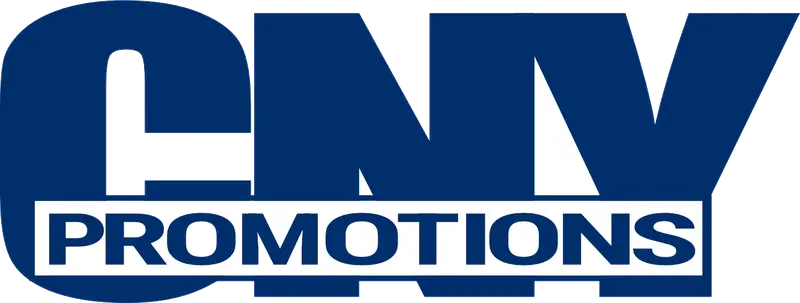
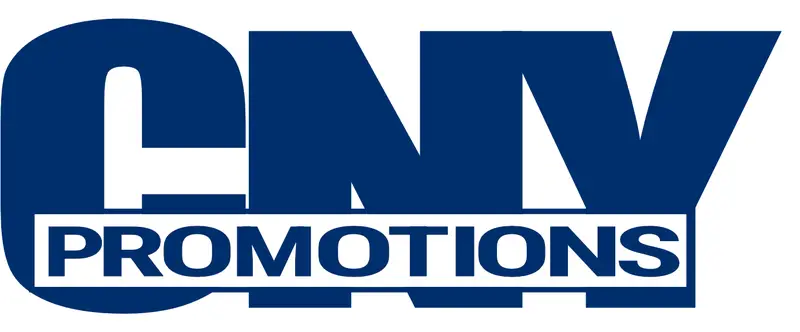
CNY Promotions keeps its white background
The owner, 10 September 2026: "for Collectorfest logo you leave the white
background, the png cut out doesn't look good, ok to keep it on white". He is
right and I looked at it before changing anything: flattened onto --card, the
cut leaves navy #002F6C ink on dark green at almost no contrast, and the white
counter inside the N and the white bar reading PROMOTIONS stay behind as
slivers that read as holes punched through the letters.

cut() DECIDES WHAT IS BACKGROUND; IT CANNOT DECIDE WHETHER THE ART SURVIVES
LOSING IT. That is a taste question and nothing in the script can measure it,
so this is an opt-out BY NAME -- KEEP_BACKGROUND in build-show-logos.py -- and
the note there says what shape of logo fails the cut so the next one is
recognisable. keep_plate() runs deletterbox() but not background_mask(), so a
screenshot's black bars still go and the white the art was drawn on stays.

THE FIRST VERSION SHIPPED THE WHITE AND ALSO ALL THE EMPTY SPACE. Keeping the
background is not the same as keeping the margin: the master is 1920x1080 with
the wordmark in the middle, so as sent it gave a 1586x1080 white slab whose art
was a third of its height, which in a 34px card slot draws the logo about 11px
tall inside a white box. It is cropped tight to the ink with a 3% margin now,
1399x581, measured with the same background_mask the cut uses and used only to
measure. The margin is what makes it read as a plate rather than a crop.
[…]

Changed region(s): [[0.0, 0.0, 1.0, 1.0]]

diff --git a/public/card-shows.html b/public/card-shows.html
@@ -339,8 +339,8 @@
         <div class="show-body">
           
           <div class="show-h"><button type="button" class="show-logo" aria-label="Enlarge the CNY Promotions logo" data-imglb="/assets/shows/cny-promotions-lg.webp" data-imglb-avif="/assets/shows/cny-promotions-lg.avif" data-imglb-alt="CNY Promotions logo"><picture>
-            <source type="image/avif" srcset="/assets/shows/cny-promotions-200.avif 200w, /assets/shows/cny-promotions-400.avif 400w" sizes="(min-width:720px) 80px, 56px">
-            <img src="/assets/shows/cny-promotions-200.webp" alt="Collectorsfest #110 logo" width="200" height="113" loading="lazy" decoding="async" srcset="/assets/shows/cny-promotions-200.webp 200w, /assets/shows/cny-promotions-400.webp 400w" sizes="(min-width:720px) 80px, 56px">
+            <source type="image/avif" srcset="/assets/shows/cny-promotions-400.avif 400w" sizes="(min-width:720px) 80px, 56px">
+            <img src="/assets/shows/cny-promotions-200.webp" alt="Collectorsfest #110 logo" width="200" height="83" loading="lazy" decoding="async" srcset="/assets/shows/cny-promotions-200.webp 200w, /assets/shows/cny-promotions-400.webp 400w" sizes="(min-width:720px) 80px, 56px">
           </picture></button><h3>Collectorsfest #110</h3></div>
           <p class="show-meta">Sunday &bull; 9:30am to 3pm</p>
           <p class="show-where"><a class="venue-link" href="https://www.google.com/maps/search/?api=1&amp;query=581%20State%20Fair%20Blvd%2C%20Syracuse%2C%20NY%2013209" data-map-apple="https://maps.apple.com/?q=581%20State%20Fair%20Blvd%2C%20Syracuse%2C%20NY%2013209" rel="noopener" target="_blank" aria-label="C&amp;S Companies Science &amp; Industry Building, NYS Fairgrounds, 581 State Fair Blvd, Syracuse, NY 13209, where Collectorsfest #110, September 13, 2026 is held, opens on google.com"><span class="show-venue">C&amp;S Companies Science &amp; Industry Building, NYS Fairgrounds</span><span class="show-addr">581 State Fair Blvd, Syracuse, NY 13209</span></a></p>
@@ -1184,8 +1184,8 @@
         <div class="show-body">
           
           <div class="show-h"><button type="button" class="show-logo" aria-label="Enlarge the CNY Promotions, LLC logo" data-imglb="/assets/shows/cny-promotions-lg.webp" data-imglb-avif="/assets/shows/cny-promotions-lg.avif" data-imglb-alt="CNY Promotions, LLC logo"><picture>
-            <source type="image/avif" srcset="/assets/shows/cny-promotions-200.avif 200w, /assets/shows/cny-promotions-400.avif 400w" sizes="(min-width:720px) 80px, 56px">
-            <img src="/assets/shows/cny-promotions-200.webp" alt="POKEFEST Syracuse logo" width="200" height="113" loading="lazy" decoding="async" srcset="/assets/shows/cny-promotions-200.webp 200w, /assets/shows/cny-promotions-400.webp 400w" sizes="(min-width:720px) 80px, 56px">
+            <source type="image/avif" srcset="/assets/shows/cny-promotions-400.avif 400w" sizes="(min-width:720px) 80px, 56px">
+            <img src="/assets/shows/cny-promotions-200.webp" alt="POKEFEST Syracuse logo" width="200" height="83" loading="lazy" decoding="async" srcset="/assets/shows/cny-promotions-200.webp 200w, /assets/shows/cny-promotions-400.webp 400w" sizes="(min-width:720px) 80px, 56px">
           </picture></button><h3>POKEFEST Syracuse</h3></div>
           <p class="show-meta">Sunday &bull; 10am to 4pm</p>
           <p class="show-where"><a class="venue-link" href="https://www.google.com/maps/search/?api=1&amp;query=581%20State%20Fair%20Blvd%2C%20Syracuse%2C%20NY%2013209" data-map-apple="https://maps.apple.com/?q=581%20State%20Fair%20Blvd%2C%20Syracuse%2C%20NY%2013209" rel="noopener" target="_blank" aria-label="C&amp;S Companies Science &amp; Industry Building, NYS Fairgrounds, 581 State Fair Blvd, Syracuse, NY 13209, where POKEFEST Syracuse, October 11, 2026 is held, opens on google.com"><span class="show-venue">C&amp;S Companies Science &amp; Industry Building, NYS Fairgrounds</span><span class="show-addr">581 State Fair Blvd, Syracuse, NY 13209</span></a></p>
@@ -1321,8 +1321,8 @@
         <div class="show-body">
           
           <div class="show-h"><button type="button" class="show-logo" aria-label="Enlarge the CNY Promotions, LLC logo" data-imglb="/assets/shows/cny-promotions-lg.webp" data-imglb-avif="/assets/shows/cny-promotions-lg.avif" data-imglb-alt="CNY Promotions, LLC logo"><picture>
-            <source type="image/avif" srcset="/assets/shows/cny-promotions-200.avif 200w, /assets/shows/cny-promotions-400.avif 400w" sizes="(min-width:720px) 80px, 56px">
-            <img src="/assets/shows/cny-promotions-200.webp" alt="Toyfest #10 logo" width="200" height="113" loading="lazy" decoding="async" srcset="/assets/shows/cny-promotions-200.webp 200w, /assets/shows/cny-promotions-400.webp 400w" sizes="(min-width:720px) 80px, 56px">
+            <source type="image/avif" srcset="/assets/shows/cny-promotions-400.avif 400w" sizes="(min-width:720px) 80px, 56px">
+            <img src="/assets/shows/cny-promotions-200.webp" alt="Toyfest #10 logo" width="200" height="83" loading="lazy" decoding="async" srcset="/assets/shows/cny-promotions-200.webp 200w, /assets/shows/cny-promotions-400.webp 400w" sizes="(min-width:720px) 80px, 56px">
           </picture></button><h3>Toyfest #10</h3></div>
           <p class="show-meta">Saturday &bull; 9:30am to 3pm</p>
           <p class="show-where"><a class="venue-link" href="https://www.google.com/maps/search/?api=1&amp;query=581%20State%20Fair%20Blvd%2C%20Syracuse%2C%20NY%2013209" data-map-apple="https://maps.apple.com/?q=581%20State%20Fair%20Blvd%2C%20Syracuse%2C%20NY%2013209" rel="noopener" target="_blank" aria-label="C&amp;S Companies Science &amp; Industry Building, NYS Fairgrounds, 581 State Fair Blvd, Syracuse, NY 13209, where Toyfest #10, October 17, 2026 is held, opens on google.com"><span class="show-venue">C&amp;S Companies Science &amp; Industry Building, NYS Fairgrounds</span><span class="show-addr">581 State Fair Blvd, Syracuse, NY 13209</span></a></p>
@@ -1436,8 +1436,8 @@
         <div class="show-body">
           
           <div class="show-h"><button type="button" class="show-logo" aria-label="Enlarge the CNY Promotions, LLC logo" data-imglb="/assets/shows/cny-promotions-lg.webp" data-imglb-avif="/assets/shows/cny-promotions-lg.avif" data-imglb-alt="CNY Promotions, LLC logo"><picture>
-            <source type="image/avif" srcset="/assets/shows/cny-promotions-200.avif 200w, /assets/shows/cny-promotions-400.avif 400w" sizes="(min-width:720px) 80px, 56px">
-            <img src="/assets/shows/cny-promotions-200.webp" alt="Collectorsfest #111 logo" width="200" height="113" loading="lazy" decoding="async" srcset="/assets/shows/cny-promotions-200.webp 200w, /assets/shows/cny-promotions-400.webp 400w" sizes="(min-width:720px) 80px, 56px">
+            <source type="image/avif" srcset="/assets/shows/cny-promotions-400.avif 400w" sizes="(min-width:720px) 80px, 56px">
+            <img src="/assets/shows/cny-promotions-200.webp" alt="Collectorsfest #111 logo" width="200" height="83" loading="lazy" decoding="async" srcset="/assets/shows/cny-promotions-200.webp 200w, /assets/shows/cny-promotions-400.webp 400w" sizes="(min-width:720px) 80px, 56px">
           </picture></button><h3>Collectorsfest #111</h3></div>
           <p class="show-meta">Sunday &bull; 9:30am to 3pm</p>
           <p class="show-where"><a class="venue-link" href="https://www.google.com/maps/search/?api=1&amp;query=581%20State%20Fair%20Blvd%2C%20Syracuse%2C%20NY%2013209" data-map-apple="https://maps.apple.com/?q=581%20State%20Fair%20Blvd%2C%20Syracuse%2C%20NY%2013209" rel="noopener" target="_blank" aria-label="C&amp;S Companies Science &amp; Industry Building, NYS Fairgrounds, 581 State Fair Blvd, Syracuse, NY 13209, where Collectorsfest #111, October 18, 2026 is held, opens on google.com"><span class="show-venue">C&amp;S Companies Science &amp; Industry Building, NYS Fairgrounds</span><span class="show-addr">581 State Fair Blvd, Syracuse, NY 13209</span></a></p>
@@ -1722,8 +1722,8 @@
         <div class="show-body">
           
           <div class="show-h"><button type="button" class="show-logo" aria-label="Enlarge the CNY Promotions, LLC logo" data-imglb="/assets/shows/cny-promotions-lg.webp" data-imglb-avif="/assets/shows/cny-promotions-lg.avif" data-imglb-alt="CNY Promotions, LLC logo"><picture>
-            <source type="image/avif" srcset="/assets/shows/cny-promotions-200.avif 200w, /assets/shows/cny-promotions-400.avif 400w" sizes="(min-width:720px) 80px, 56px">
-            <img src="/assets/shows/cny-promotions-200.webp" alt="Collectorsfest #112 logo" width="200" height="113" loading="lazy" decoding="async" srcset="/assets/shows/cny-promotions-200.webp 200w, /assets/shows/cny-promotions-400.webp 400w" sizes="(min-width:720px) 80px, 56px">
+            <source type="image/avif" srcset="/assets/shows/cny-promotions-400.avif 400w" sizes="(min-width:720px) 80px, 56px">
+            <img src="/assets/shows/cny-promotions-200.webp" alt="Collectorsfest #112 logo" width="200" height="83" loading="lazy" decoding="async" srcset="/assets/shows/cny-promotions-200.webp 200w, /assets/shows/cny-promotions-400.webp 400w" sizes="(min-width:720px) 80px, 56px">
           </picture></button><h3>Collectorsfest #112</h3></div>
           <p class="show-meta">Sunday &bull; 9:30am to 3pm</p>
           <p class="show-where"><a class="venue-link" href="https://www.google.com/maps/search/?api=1&amp;query=441%20Electronics%20Parkway%2C%20Liverpool%2C%20NY%2013088" data-map-apple="https://maps.apple.com/?q=441%20Electronics%20Parkway%2C%20Liverpool%2C%20NY%2013088" rel="noopener" target="_blank" aria-label="Randolph House Hotel, 441 Electronics Parkway, Liverpool, NY 13088, where Collectorsfest #112, November 1, 2026 is held, opens on google.com"><span class="show-venue">Randolph House Hotel</span><span class="show-addr">441 Electronics Parkway, Liverpool, NY 13088</span></a></p>
@@ -2198,8 +2198,8 @@
         <div class="show-body">
           
           <div class="show-h"><button type="button" class="show-logo" aria-label="Enlarge the CNY Promotions, LLC logo" data-imglb="/assets/shows/cny-promotions-lg.webp" data-imglb-avif="/assets/shows/cny-promotions-lg.avif" data-imglb-alt="CNY Promotions, LLC logo"><picture>
-            <source type="image/avif" srcset="/assets/shows/cny-promotions-200.avif 200w, /assets/shows/cny-promotions-400.avif 400w" sizes="(min-width:720px) 80px, 56px">
-            <img src="/assets/shows/cny-promotions-200.webp" alt="Collector's Mega Show #113 logo" width="200" height="113" loading="lazy" decoding="async" srcset="/assets/shows/cny-promotions-200.webp 200w, /assets/shows/cny-promotions-400.webp 400w" sizes="(min-width:720px) 80px, 56px">
+            <source type="image/avif" srcset="/assets/shows/cny-promotions-400.avif 400w" sizes="(min-width:720px) 80px, 56px">
+            <img src="/assets/shows/cny-promotions-200.webp" alt="Collector's Mega Show #113 logo" width="200" height="83" loading="lazy" decoding="async" srcset="/assets/shows/cny-promotions-200.webp 200w, /assets/shows/cny-promotions-400.webp 400w" sizes="(min-width:720px) 80px, 56px">
           </picture></button><h3>Collector's Mega Show #113</h3></div>
           <p class="show-meta">Saturday &bull; 9:30am to 4pm</p>
           <p class="show-where"><a class="venue-link" href="https://www.google.com/maps/search/?api=1&amp;query=581%20State%20Fair%20Blvd%2C%20Syracuse%2C%20NY%2013209" data-map-apple="https://maps.apple.com/?q=581%20State%20Fair%20Blvd%2C%20Syracuse%2C%20NY%2013209" rel="noopener" target="_blank" aria-label="Horticultural Building, NYS Fairgrounds, 581 State Fair Blvd, Syracuse, NY 13209, where Collector's Mega Show #113, December 5, 2026 is held, opens on google.com"><span class="show-venue">Horticultural Building, NYS Fairgrounds</span><span class="show-addr">581 State Fair Blvd, Syracuse, NY 13209</span></a></p>

diff --git a/scripts/build-show-logos.py b/scripts/build-show-logos.py
@@ -166,6 +166,58 @@ def background_mask(rgb: np.ndarray, tol: int) -> np.ndarray:
     return seen
 
 
+# SOME LOGOS ARE WORSE WITH THE BACKGROUND CUT, AND THE CUT IS NOT A JUDGEMENT
+# ABOUT WHETHER THEY LOOK GOOD. cut() decides what is background; it cannot
+# decide whether the art SURVIVES losing it. A logo whose ink is dark and whose
+# shapes have white counters comes out of it as a patchwork: the ink lands on
+# --card at close to no contrast, and the enclosed whites stay behind as slivers
+# that read as holes punched in the letters.
+#
+# CNY PROMOTIONS IS THAT CASE and the owner called it, 10 September 2026: "for
+# Collectorfest logo you leave the white background, the png cut out doesn't look
+# good, ok to keep it on white". Navy #002F6C wordmark, a white bar through the
+# middle of it reading PROMOTIONS, and a white counter inside the N. Cut, the
+# navy sits on the dark green card and the two whites float unattached.
+#
+# So this is an opt-out BY NAME rather than a heuristic, because the test is
+# taste and nothing here can measure it. Add a stem when a cut logo looks wrong
+# on the page, and look at the rendition on the card green before deciding: run
+# this script with --preview, which flattens each one onto CARD for exactly that.
+KEEP_BACKGROUND = {"cny-promotions"}
+
+
+def keep_plate(path: Path) -> Image.Image:
+    """The logo as sent, on the background it was drawn on, letterboxing removed.
+
+    deletterbox() still runs, because a screenshot's black bars are not the
+    logo's background and nobody wants them either. What is deliberately NOT run
+    is background_mask(), so the white the art was designed to sit on ships with
+    it. Returned RGBA with a solid alpha so the caller's resize path, which
+    resizes colour and alpha together, needs no special case.
+    """
+    im = deletterbox(ImageOps.exif_transpose(Image.open(path)).convert("RGB"))
+
+    # CROP THE PLATE TIGHT TO THE INK, WITH A MARGIN, because keeping the
+    # background is not the same as keeping the empty space around it. CNY's
+    # master is 1920x1080 with the wordmark in the middle, so shipping it as
+    # sent gave a 1586x1080 white slab whose art was a third of its height: on
+    # a 34px-tall card slot that renders the logo about 11px tall and the rest
+    # is white. background_mask finds the ink here exactly as it does for a
+    # cut, and is used only to MEASURE. PAD keeps the wordmark off the edge of
+    # its own plate, which is what makes it read as a plate rather than a crop.
+    arr = np.asarray(im)
+    bg = background_mask(arr, TOL)
+    ys, xs = np.where(~bg)
+    if len(xs):
+        PAD = round(min(im.size) * 0.03)
+        l = max(0, xs.min() - PAD)
+        t = max(0, ys.min() - PAD)
+        r = min(im.width, xs.max() + 1 + PAD)
+        b = min(im.height, ys.max() + 1 + PAD)
+        im = im.crop((l, t, r, b))
+    return im.convert("RGBA")
+
+
 def cut(path: Path) -> Image.Image:
     im = deletterbox(ImageOps.exif_transpose(Image.open(path)).convert("RGB"))
     arr = np.asarray(im)
@@ -243,9 +295,10 @@ def main() -> int:
 
     OUT.mkdir(parents=True, exist_ok=True)
     for m in masters:
-        img = cut(m)
+        img = keep_plate(m) if m.stem in KEEP_BACKGROUND else cut(m)
         w, h = img.size
-        print(f"{m.name}: {Image.open(m).size} master -> {w}x{h} trimmed")
+        how = "on its own white" if m.stem in KEEP_BACKGROUND else "trimmed"
+        print(f"{m.name}: {Image.open(m).size} master -> {w}x{h} {how}")
         print(f'  data/shows.json: "logoW": {w}, "logoH": {h}')
 
         if preview:
